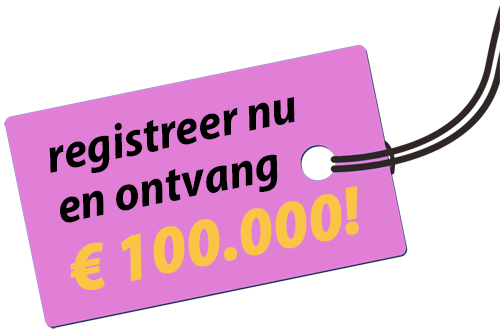
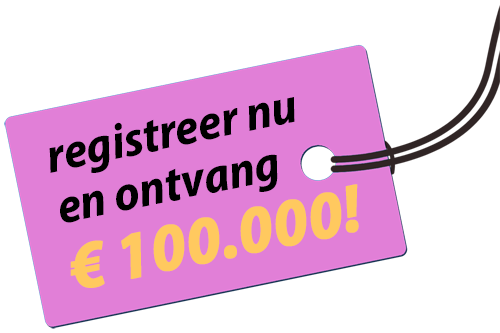
Kleine tweak kleurenschema en afbeeldingen.

Changed region(s): [[0.24, 0.5405, 0.72, 0.8408], [0.12, 0.7207, 0.21, 0.8709]]

diff --git a/src/main/resources/static/index.html b/src/main/resources/static/index.html
@@ -65,11 +65,10 @@
         <form id="registratieFormulier">
             <div class="grid_4">
                 <p class="registratie">Inloggegevens:</p>
-                <input id="email_reg" name="email_reg" placeholder="e-mailadres *" title="je e-mailadres" required=""
-                       pattern="[a-z0-9._%+-]+@[a-z0-9.-]+\.[a-z]{2,4}$" type="email">
-                <input id="wachtwoord_reg" maxlength="65" minlength="10" name="wachtwoord_reg"
-                       placeholder="wachtwoord *"
-                       title="je wachtwoord (10 tot 65 tekens)" required="" onkeyup='check()' type="password">
+                <input id="email_reg" name="email_reg" placeholder="e-mailadres *" title="vul een geldig e-mailadres in"
+                       required="" pattern="[a-z0-9._%+-]+@[a-z0-9.-]+\.[a-z]{2,6}$" type="email">
+                <input id="wachtwoord_reg" maxlength="65" minlength="10" name="wachtwoord_reg" onkeyup='check()'
+                       placeholder="wachtwoord *" title="je wachtwoord (10 tot 65 tekens)" required="" type="password">
                 <input id="wachtwoord_check" maxlength="65" minlength="10" name="wachtwoord_check"
                        placeholder="wachtwoord (check) *" title="herhaal je wachtwoord" required="" onkeyup='check()'
                        type="password">
@@ -91,7 +90,7 @@
                 <input id="postcode" name="postcode" placeholder="postcode *" title="je postcode" required=""
                        pattern="[1-9][0-9]{3}\s?[a-zA-Z]{2}" type="text">
                 <input id="huisnummer" name="huisnummer" placeholder="huisnummer *" title="je huisnummer" required=""
-                       type="text">
+                       type="number">
                 <input id="toevoeging" name="toevoeging" placeholder="toevoeging"
                        title="je eventuele huisnummertoevoeging"
                        type="text">

diff --git a/src/main/resources/static/js/adresAanvulling.js b/src/main/resources/static/js/adresAanvulling.js
@@ -14,7 +14,7 @@ function checkForAddressPart(){
     if(regex.test(postcode) && huisnummer){
         // let data = { postcode: postcode, nr: huisnummer};
         // stuur data als form data ipv json, want backend accepteert alleen form
-        let formData = `postcode=${postcode}&number=${huisnummer}` //postcode=1234AB&nr=15
+        let formData = `postcode=${postcode}&number=${huisnummer}` // postcode=1234AB&nr=15
         fetch("https://postcode.tech/api/v1/postcode?" + formData , {
             headers: {
                 'Authorization': 'Bearer f972ed2c-4197-4cde-823b-54cf38520abd',

diff --git a/src/main/resources/static/css/style.css b/src/main/resources/static/css/style.css
@@ -1,7 +1,7 @@
 /* ----- KLEUREN ----- */
 
 :root {
-    --divaGoud: #ffbd54;
+    --divaGoud: #ffc95f;
     --divaRoze: #f27ddd;
     --divaDrop: #131313;
     --divaIvoor: #fffff0;
@@ -127,8 +127,9 @@ input[type="submit"]:hover {    /* Aanpassingen invoervelden van type submit bij
 
 .loginPagina {    /* Aanpassingen voor loginPagina */
     display: block;
+    padding-right: 48px;
     width: 430px;
-    height: 505px;
+    height: 508px;
 }
 
 .registratieLaag {    /* Aanpassingen voor registratieLaag */

diff --git a/src/main/resources/static/js/script.js b/src/main/resources/static/js/script.js
@@ -6,6 +6,7 @@ document.getElementById("logoDigivault").addEventListener("click", verversPagina
 function verversPagina() {
     location.reload();
 }
+
 //vanuit Login Scherm naar Wachtwoord vergeten pagina bij klik op #naarWachtwoordVergeten
 document.getElementById("naarWachtwoordVergeten").addEventListener("click",toonWachtwoordVergeten);
 
